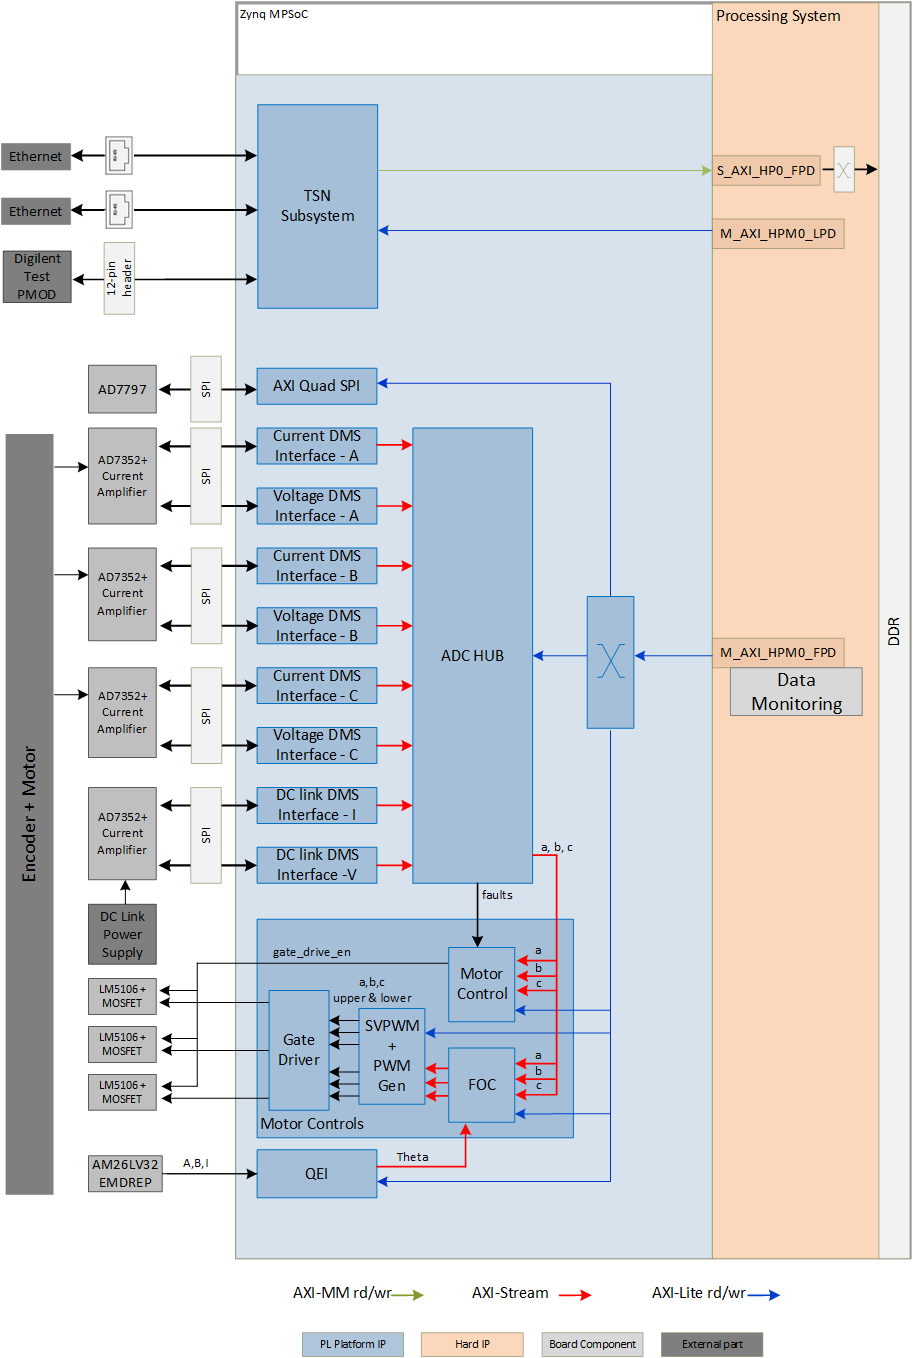
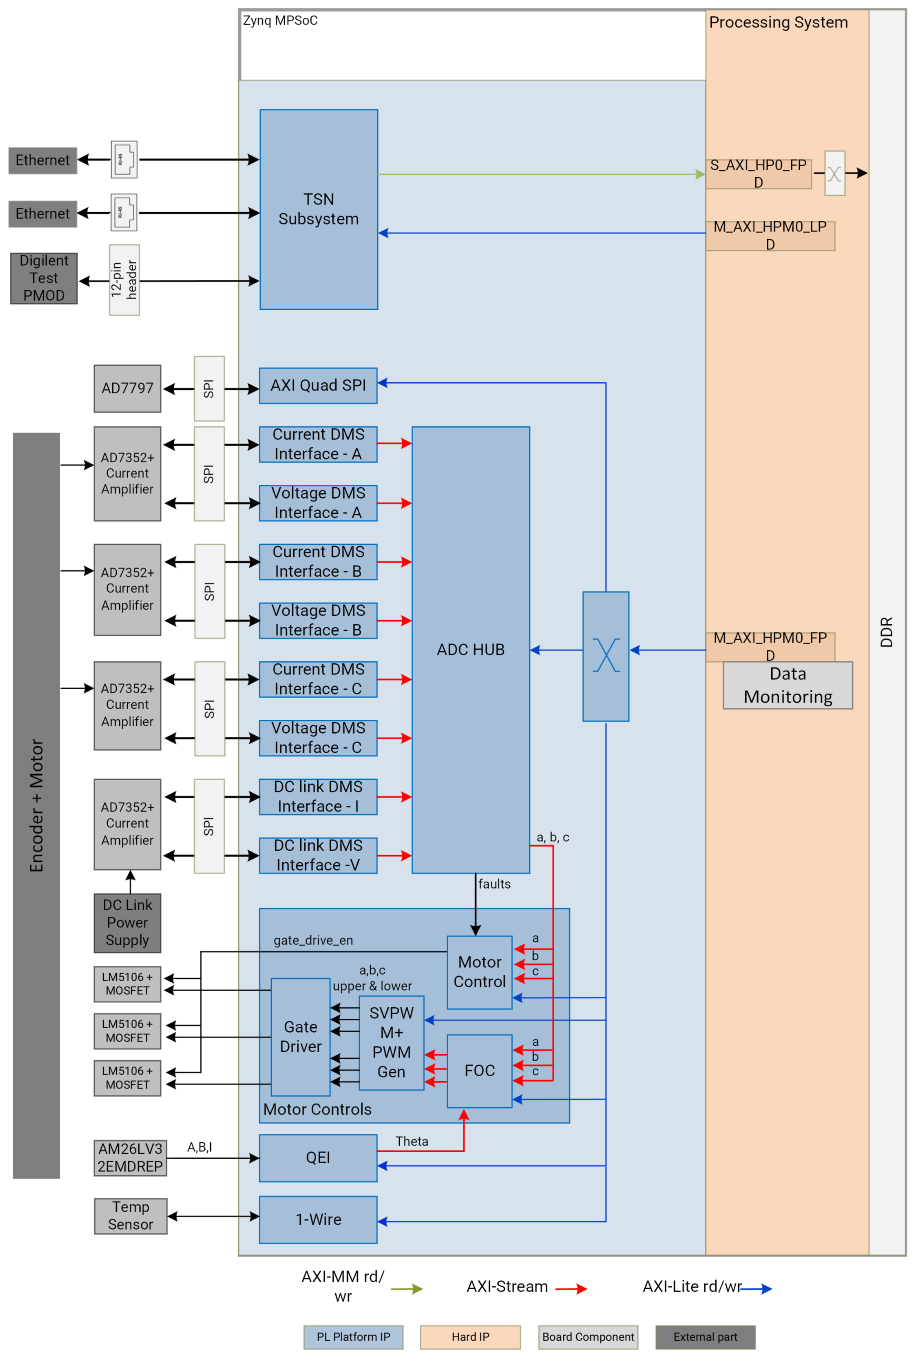
docs: added 1wire section

Changed region(s): [[0.0, 0.0, 1.0, 1.0]]

diff --git a/docs/src/hw_description.md b/docs/src/hw_description.md
@@ -46,6 +46,8 @@
   * Time Aware DMA (TADMA)
   * Test PMOD controller
 
+* 1-Wire Bus Host: This interface can be used to read an external 1-Wire device, such as a temperature sensor.
+
 ## Motor Control System
 
 ### QEI
@@ -227,6 +229,12 @@ The other signal which is monitored to see if the Transmitter and Receiver clock
 
 For more information on how to use PMOD signals to check clock synchronization and to measure latency and confirm Qbv programming, refer to [application deployment page](./app_deployment.md).
 
+## AXI 1-wire Bus Host IP
+
+The AXI 1-Wire Host provides a 1-Wire bus controller interface to an AXI4-Lite interface. It supports the 1-Wire bus protocol with support for the essential 1-Wire bus master signals. The AXI 1-Wire Host contains a 1-Wire Host Core Controller, which guarantees protocol timing for driving off-board devices. It can be configured to generate an interrupt when the controller completes the signal instruction cycle. The AXI 1-Wire Host can be configured to bypass the 1-Wire Host Core Controller to manipulate the 1-Wire bus as a general purpose I/O (GPIO).
+
+Information on how to use the AXI 1-Wire IP can be found on [GitHub](https://github.com/Xilinx/axi_1wire_host-design).
+
 ## Clocks, Resets, and Interrupts
 
 ### Clocks
@@ -273,6 +281,7 @@ The following table lists the PL-to-PS interrupts used in this design.
 |pl_ps_irq0[5]| HLS SVPWM Duty IP  |
 |pl_ps_irq0[6]| HLS PWM Gen IP     |
 |pl_ps_irq0[7]| TSN Subsystem      |
+|pl_ps_irq1[0]| AXI 1-Wire IP      |
 
 The TSN Subsystem interrupts are itemized in the following table.
 
@@ -288,13 +297,13 @@ The resource utilization numbers on this platform post implementation is reporte
 
 | Resource  | Utilization  | Available  | Utilization %  |
 | :---      |    :----     | :---       |    :----       |
-| LUT       | 57895        | 70560      | 82.05 |
-| LUTRAM    | 4098         | 28800      | 14.23 |
-| FF        | 84715        | 141120     | 60.03 |
+| LUT       | 57008        | 70560      | 80.79 |
+| LUTRAM    | 2996         | 28800      | 10.40 |
+| FF        | 81183        | 141120     | 57.53 |
 | BRAM      | 116          | 216        | 53.70 |
-| DSP       | 133          | 360        | 36.94 |
-| IO        | 63           | 81         | 77.78 |
-| BUFG      | 21           | 196        | 10.71 |
+| DSP       | 136          | 360        | 37.78 |
+| IO        | 64           | 81         | 79.01 |
+| BUFG      | 17           | 196        | 8.67  |
 | MMCM      | 2            | 3          | 66.67 |
 | PLL       | 0            | 6          | 0.00  |
 
